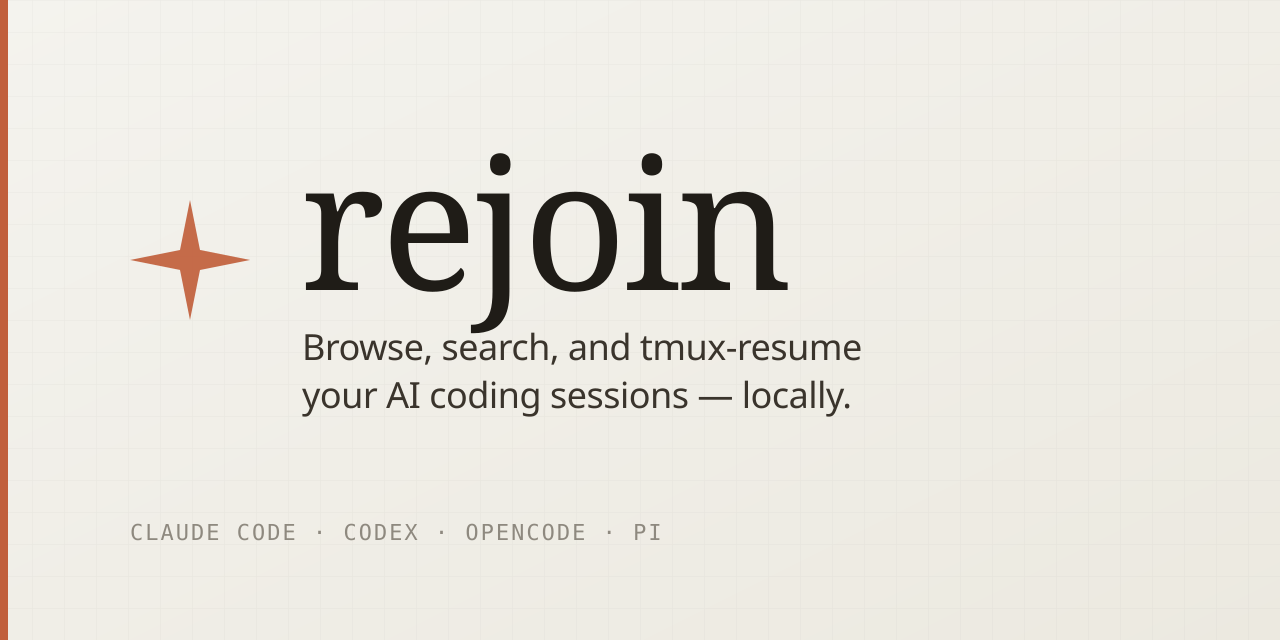
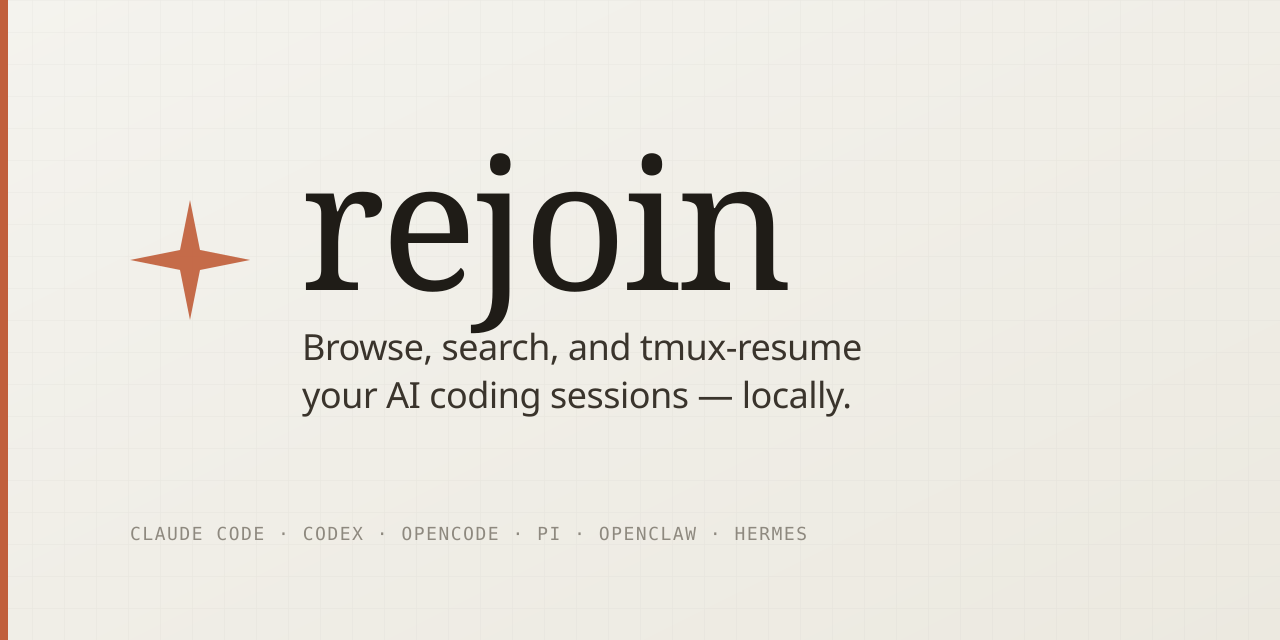
docs: update everything to reflect 6 tools (OpenClaw + Hermes)
- README Why section lists all six per-harness pickers.
- Features bullet updated from 'Four tools' → 'Six tools' with
  Hermes native-title note.
- Storage table gains rows for ~/.openclaw/agents/ and ~/.hermes/state.db.
- Show HN copy includes OpenClaw and Hermes; mentions native-title reuse.
- Social preview SVG + regenerated PNG now list all six at the bottom.
- TUI subtitle updated to show all six tool names.

Note: GitHub repo description also updated separately via `gh repo edit`
to match — live at https://github.com/akakabrian/rejoin.

Changed region(s): [[0.0938, 0.8125, 0.625, 0.8438]]

diff --git a/rejoin/tui.py b/rejoin/tui.py
@@ -232,7 +232,7 @@ def _render_transcript(
 class SessionDashTUI(App):
     CSS_PATH = "tui.tcss"
     TITLE = "rejoin"
-    SUB_TITLE = "claude · codex · opencode · pi"
+    SUB_TITLE = "claude · codex · opencode · pi · openclaw · hermes"
     ENABLE_COMMAND_PALETTE = False
 
     BINDINGS = [

diff --git a/README.md b/README.md
@@ -14,7 +14,8 @@ Every coding agent ships its own little session picker:
 
 - Claude Code has `claude -r`, but only lists **Claude** sessions.
 - Codex has `codex resume`, but only lists **Codex** sessions.
-- OpenCode and Pi each keep their sessions somewhere else again.
+- Hermes has `hermes --resume`, but only lists **Hermes** sessions.
+- OpenCode, Pi, and OpenClaw each keep their sessions somewhere else again.
 
 So if you run more than one — and most of us do — you can't answer basic questions:
 
@@ -22,7 +23,7 @@ So if you run more than one — and most of us do — you can't answer basic que
 - *"Show me every session I had open in ~/projects/my-app, across all agents."*
 - *"What was that Codex thread about auth tokens — the one I had open alongside the Claude session?"*
 
-**rejoin is the unified view.** It reads all four harnesses' session files locally, auto-titles them into scannable headlines ("HTTP Client Query String Redaction", not `e0a57d18-…`), and gives you one keyboard-first dashboard — web or TUI — to search across them, group by project, pin favorites, and pick back up in tmux.
+**rejoin is the unified view.** It reads all six harnesses' session files locally, auto-titles them into scannable headlines ("HTTP Client Query String Redaction", not `e0a57d18-…`), and gives you one keyboard-first dashboard — web or TUI — to search across them, group by project, pin favorites, and pick back up in tmux.
 
 ## Try it in 30 seconds
 
@@ -67,7 +68,7 @@ The same dashboard as a first-class TUI. Inside tmux, pressing `Enter` on a row 
 
 ## Features
 
-- **Four tools**: Claude Code and Codex (our own parsers — richer detail); OpenCode and Pi via [`agent-sessions`](https://github.com/larsderidder/agent-sessions).
+- **Six tools**: Claude Code, Codex, OpenClaw, and Hermes via our own parsers (Hermes uses the tool's native titles); OpenCode and Pi via [`agent-sessions`](https://github.com/larsderidder/agent-sessions).
 - **Auto titles**: `qwen/qwen3-30b-a3b-instruct-2507` (~$7e-6 per title). Falls back to the first prompt if no key.
 - **Rejoin in tmux**: one click. Detached by default; inside tmux the TUI opens a new window in the current server.
 - **Incremental** reindex every 60 s, skipping unchanged mtimes.
@@ -241,6 +242,8 @@ Click the amber **★** on any row to pin/unpin without opening the session. Cli
 | `~/.codex/sessions/**/*.jsonl` | Codex source (read-only) |
 | `~/.local/share/opencode/opencode.db` | OpenCode source (read-only) |
 | `~/.pi/agent/sessions/**/*.jsonl` | Pi source (read-only) |
+| `~/.openclaw/agents/**/*.jsonl` | OpenClaw source (read-only) |
+| `~/.hermes/state.db` | Hermes source (read-only) |
 
 rejoin **never writes** to session files. It only reads. The SQLite index is a pure cache; deleting it forces a clean reindex on next launch (titles re-generate).
 
@@ -304,7 +307,7 @@ MIT. See [LICENSE](LICENSE).
 <details>
 <summary>Show HN / Reddit launch copy</summary>
 
-**Title**: *Show HN: rejoin — a unified session browser for Claude Code, Codex, OpenCode, and Pi*
+**Title**: *Show HN: rejoin — a unified session browser for Claude Code, Codex, OpenCode, Pi, OpenClaw, and Hermes*
 
 **Body**:
 
@@ -313,12 +316,13 @@ MIT. See [LICENSE](LICENSE).
 > you can't answer "which of my agents had that webhook debugging thread?"
 > without grepping through JSONL by hand.
 >
-> **rejoin** is the cross-harness view. It reads session files from all four
-> agents locally, auto-titles them with a cheap OpenRouter model, and gives
+> **rejoin** is the cross-harness view. It reads session files from all six
+> agents locally, auto-titles them with a cheap OpenRouter model (or reuses
+> the tool's native titles for Hermes), and gives
 > you one keyboard-first dashboard — web or TUI — to search, filter by
 > project, pin favorites, and rejoin any of them in tmux with one keystroke.
 >
-> - Reads `~/.claude/projects`, `~/.codex/sessions`, OpenCode's SQLite, and Pi.
+> - Reads Claude Code, Codex, OpenCode, Pi, OpenClaw, and Hermes session stores — JSONL files or SQLite, whichever the agent uses.
 > - FTS5 search across prompts, titles, and Codex compaction summaries —
 >   regardless of which agent generated them.
 > - Group-by-cwd shows every agent you've used in a given project side by side.
